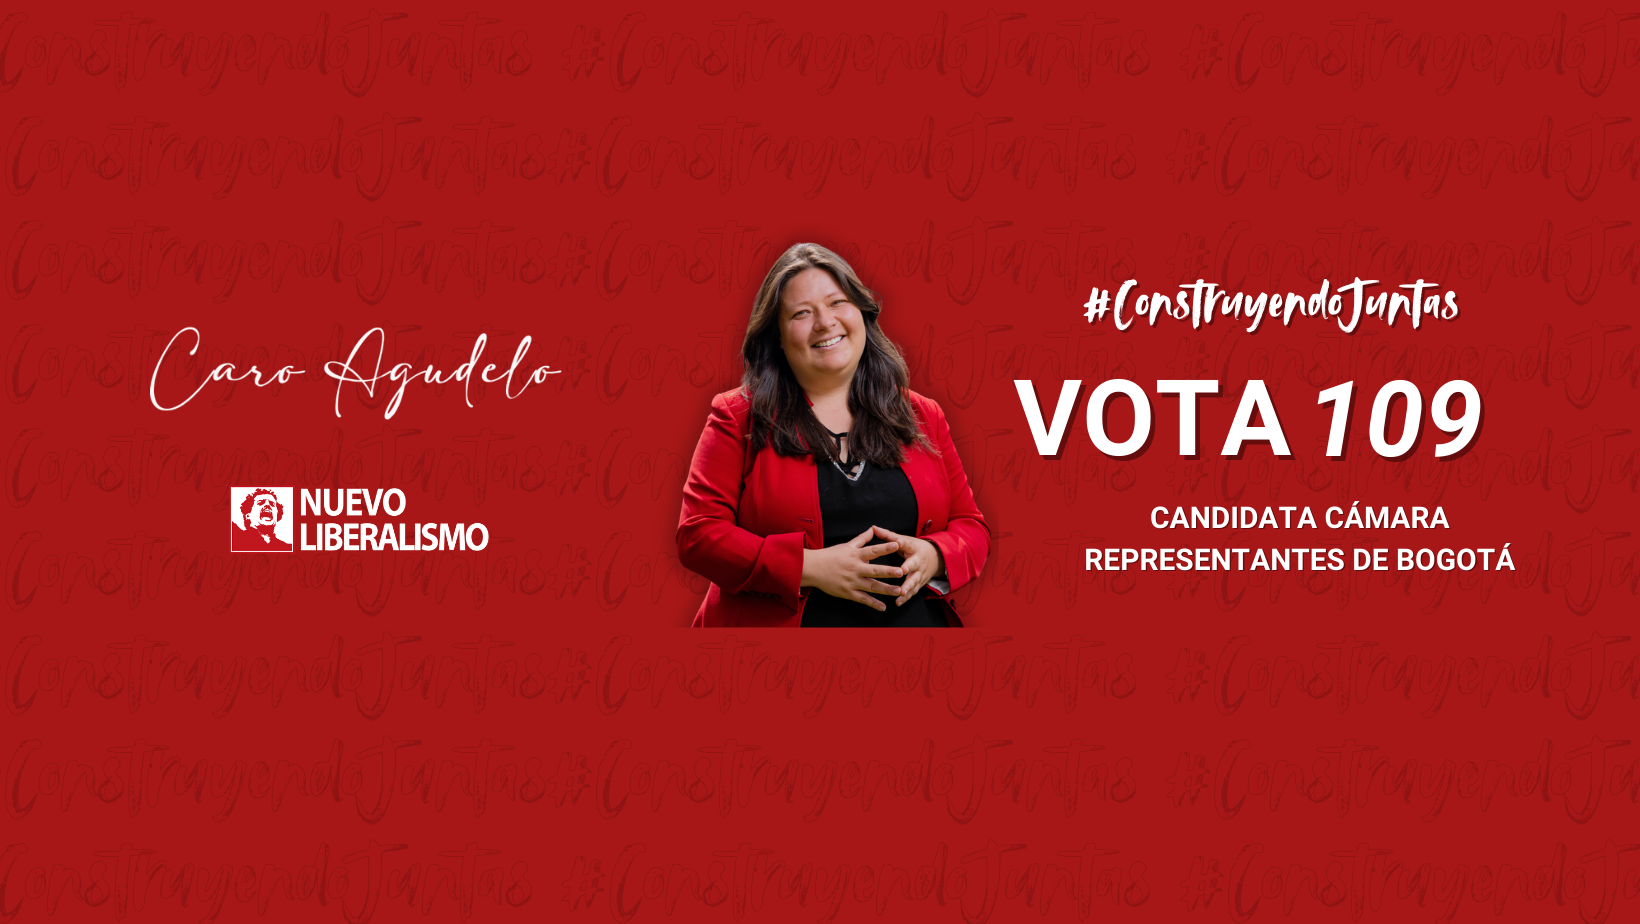
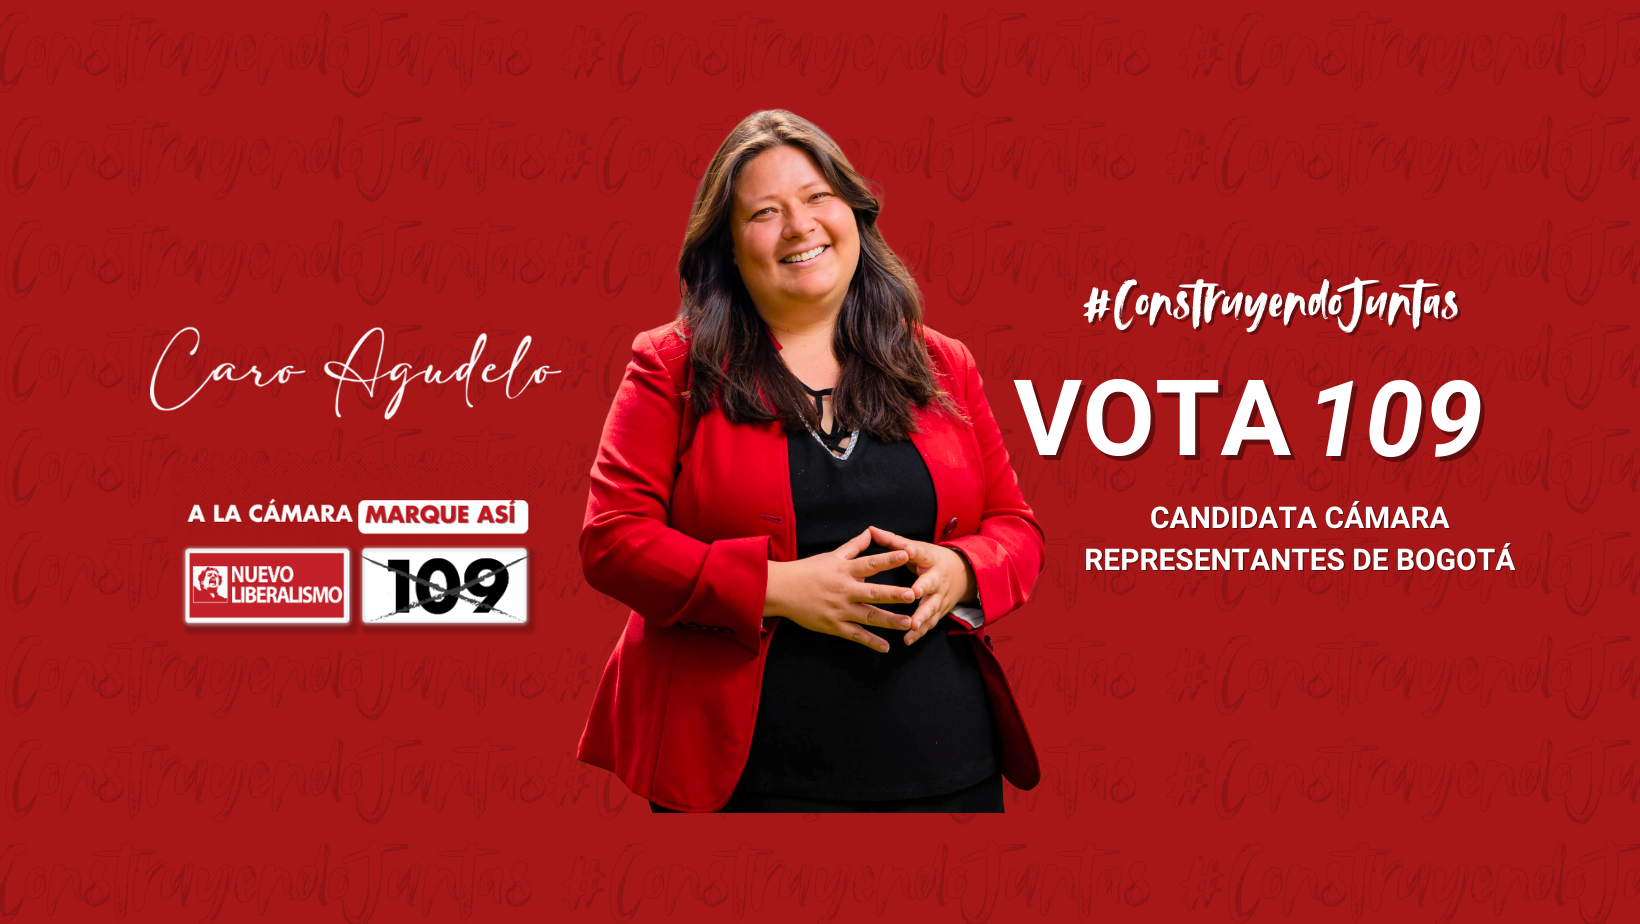
Updated hero image height to 520px and replaced profile image

Changed region(s): [[0.0933, 0.1212, 0.653, 0.8788]]

diff --git a/css/style.css b/css/style.css
@@ -443,7 +443,7 @@ button:focus-visible {
 .hero-image {
     position: relative;
     width: 100%;
-    height: 370px;
+    height: 520px;
 }
 
 .hero-image img {
